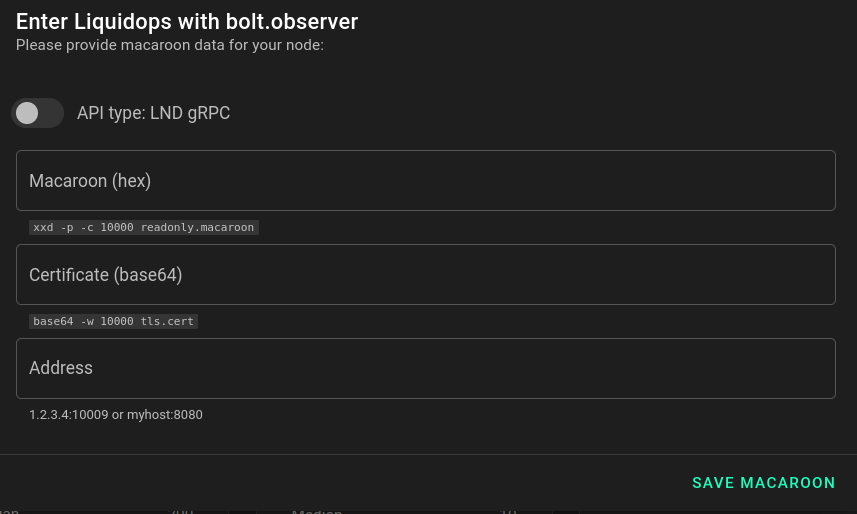
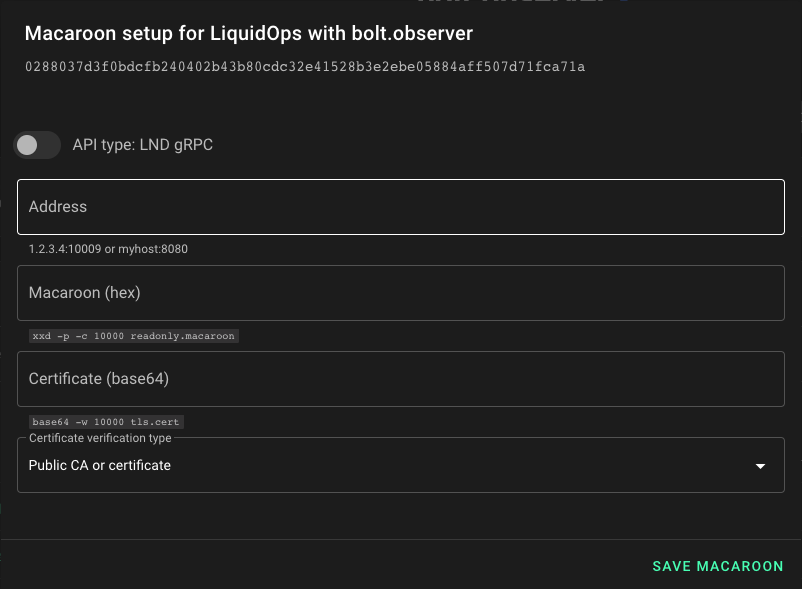
CLN setup added to docs

diff --git a/readme/liquidops/guide.md b/readme/liquidops/guide.md
@@ -2,19 +2,26 @@
 
 Prerequisites:
 
-* RPC or REST reachable from our addresses (3.233.3.134, 54.173.247.208)
+* API reachable from our IP addresses (3.233.3.134, 54.173.247.208)
 
-Our nodes are connecting from 3.233.3.134 and from 54.173.247.208, so make sure you have those IPs whitelisted and that they can access LND API. We support both gRPC (usually on TCP port 10009) and REST API (usually running on TCP port 8080), so either of them should be enough (we prefer gRPC though).
-
-
+You need to have those IPs whitelisted. For LND we support both gRPC (usually on TCP port 10009) and REST API (usually running on TCP port 8080), so either of them should be enough (we prefer gRPC though).
+For CoreLightning we use `commando` so only lightning port (TCP 9735) should be reachable from our IPs (usually is is open for everyone already since else nobody can open a channel with your node).
 
 ### Enroll your node
 
-Click on the button “Enroll in LiquidOps” to initiate the configuration
+Click on the button “Enroll in Liquidops” to initiate the configuration
 
 <figure><img src="../../.gitbook/assets/node-view.png" alt=""><figcaption></figcaption></figure>
 
+In the next step you can choose how you want to enroll your node:
+
+<figure><img src="../../.gitbook/assets/liquidops-menu.png" alt=""><figcaption></figcaption></figure>
+
+Click "Continue" for either "CoreLightning Node" or "LND Node".
+
 In the next step you have to enter node connection details&#x20;
+
+### LND
 
 <figure><img src="../../.gitbook/assets/macaroon-config.png" alt=""><figcaption></figcaption></figure>
 
@@ -47,8 +54,25 @@ Now you need to configure  the api endpoint
 
 <figure><img src="../../.gitbook/assets/address.png" alt=""><figcaption></figcaption></figure>
 
-If all the information inserted was correct you now press "**save macaroon**" button and you will see LiquidOps enabled for your node
+If all the information inserted was correct you now press "**save macaroon**" button and you will see Liquidops enabled for your node
+
+### CoreLightning
+
+<figure><img src="../../.gitbook/assets/rune-config.png" alt=""><figcaption></figcaption></figure>
+
+For CLN you just need node address and a read-only rune. Rune can be obtained using `lightning-cli commando-rune restrictions=readonly` on your CLN node and copying `rune` field.
+Note that doing this will automatically enable `commando` plugin.
+
+An example rune looks like this:
+
+`KUhZzNlECC7pYsz3QVbF1TqjIUYi3oyESTI7n60hLMs9MA==`
+
+Copy your value to Rune input and press **save rune** button.
+
+### Liquidops enabled
+
+After saving the data you should see:
 
 <figure><img src="../../.gitbook/assets/node-enabled.png" alt=""><figcaption></figcaption></figure>
 
-You should see the data being pulled from your node briefly and extra options unlocked to create new alerts under **Manage alerts**
+and the data being pulled from your node briefly and extra options unlocked to create new alerts under **Manage alerts**
